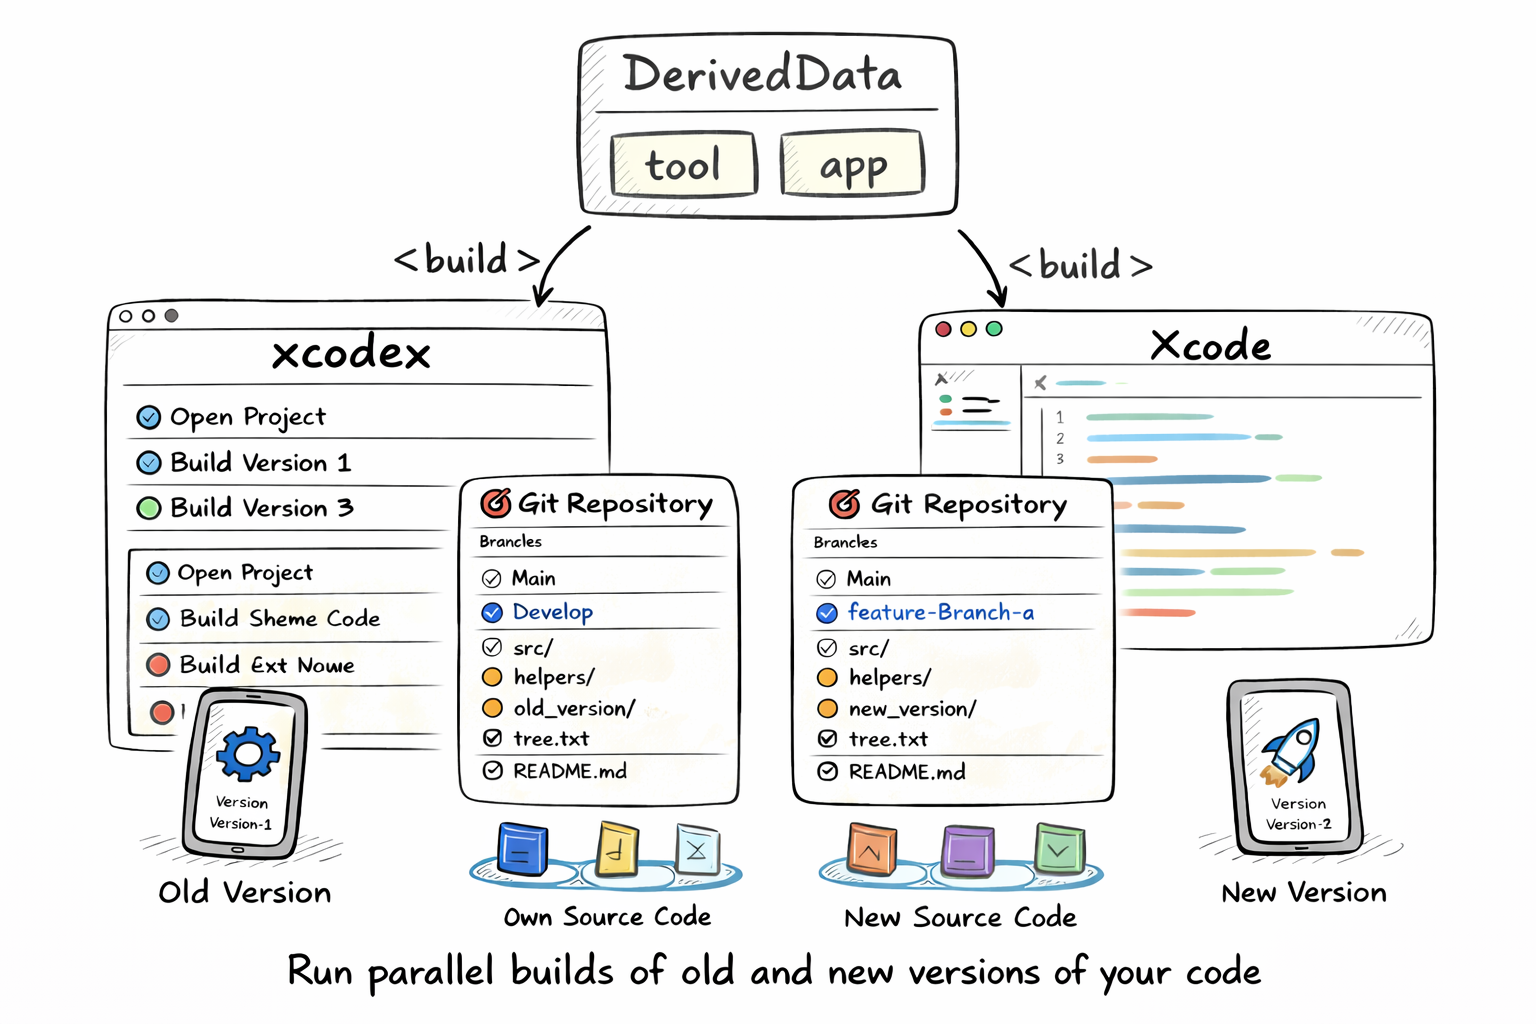
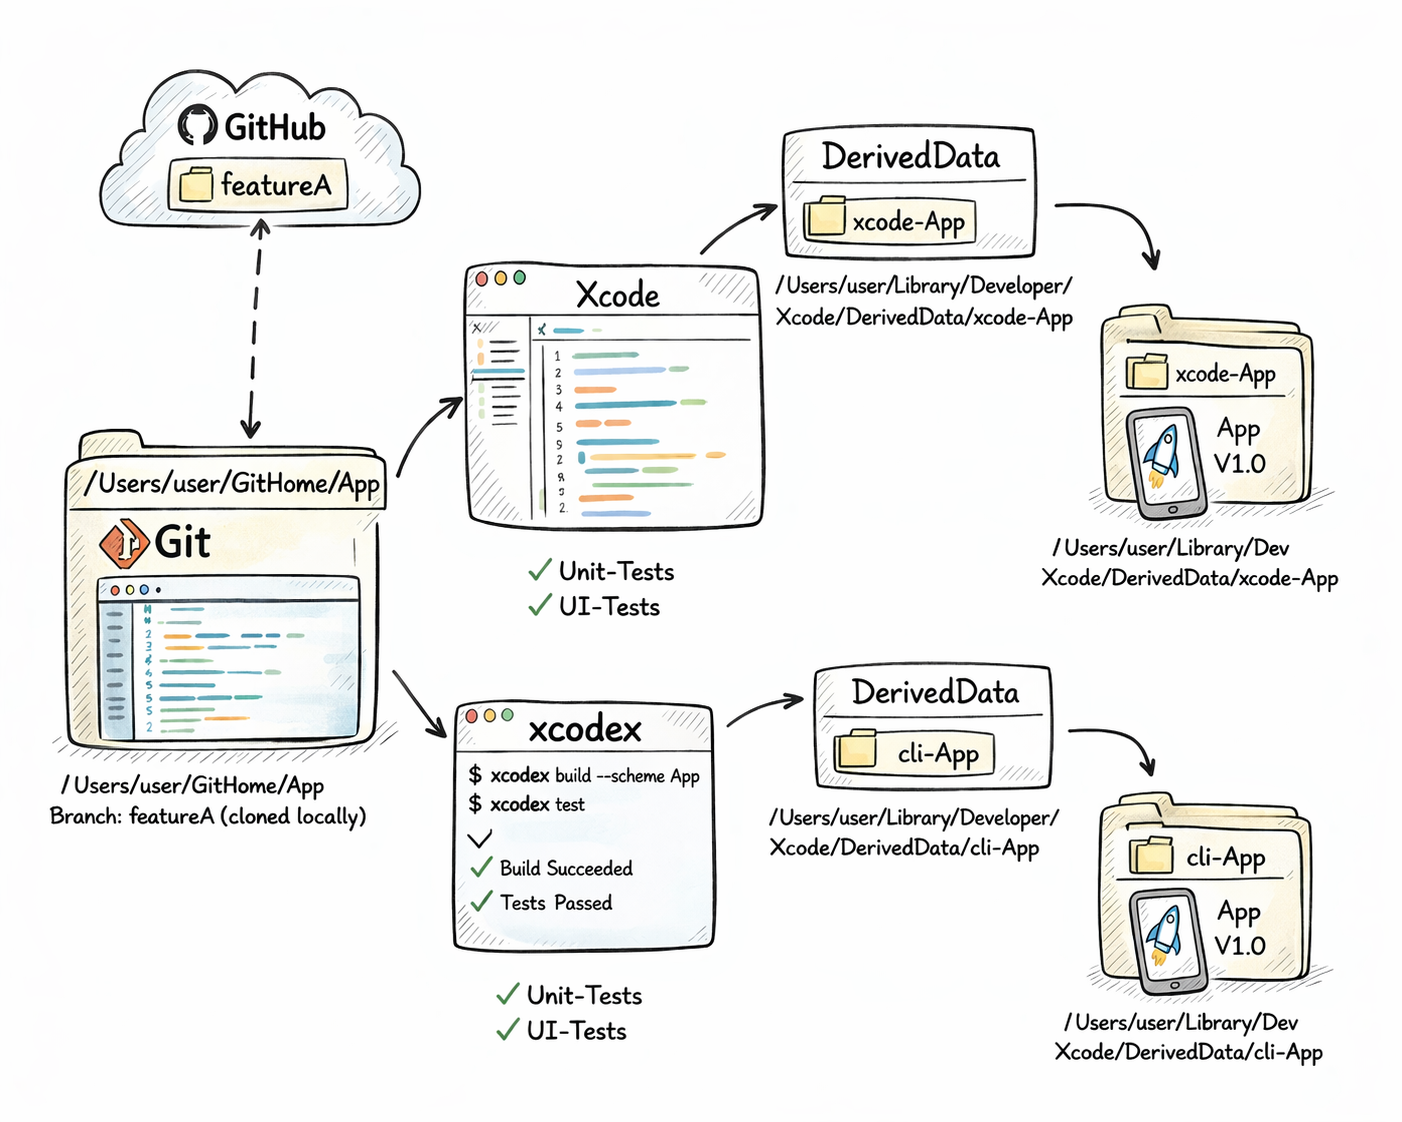
New Version

diff --git a/releaseNotes.md b/releaseNotes.md
@@ -76,6 +76,21 @@
 
 - **New color `Color.boldDarkPurple`** — For [RETURN] hints in input prompts. New localization keys: `spm_resolve_retry`, `start_build_run_confirm`, `action_cancelled`.
 
+### Hotkeys in the Split-Pane Menu
+
+- **Hotkey bar (digits 1–9)** — A new hotkey bar is shown below the split-pane. Nine frequently used actions can be triggered directly by pressing a digit key, without navigating the cursor to a category or entry first:
+  - `1` — Delete Toolbox Build
+  - `2` — Delete caches without SPM
+  - `3` — Build & Run (Simulator or native macOS)
+  - `4` — Quick Reset & Build (DerivedData → Build → Launch)
+  - `5` — Full Reset & Build (all caches → Build → Launch)
+  - `6` — Relaunch app (Simulator mode only)
+  - `7` — Run Unit Tests
+  - `8` — Initialize project (only if no project is set up yet)
+  - `9` — Update project (only if a project has already been initialized)
+
+- **`autoConfirmHotkey` flag** — Actions triggered by a hotkey that would normally show a confirmation prompt (`confirmAction()`) are silently confirmed. The flag is reset after the action completes, so normal menu navigation is unaffected.
+
 ### Bug Fixes
 
 - **Darkmode display issue in main menu fixed** — `MainMenu.swift` had a display issue in dark mode; colour values corrected.